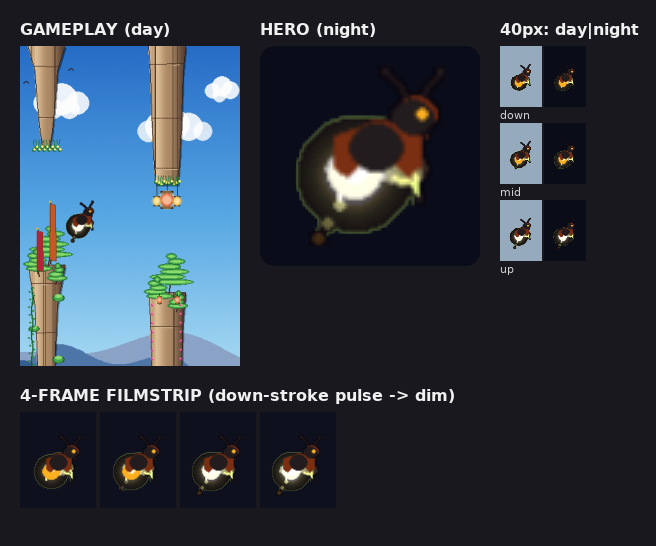
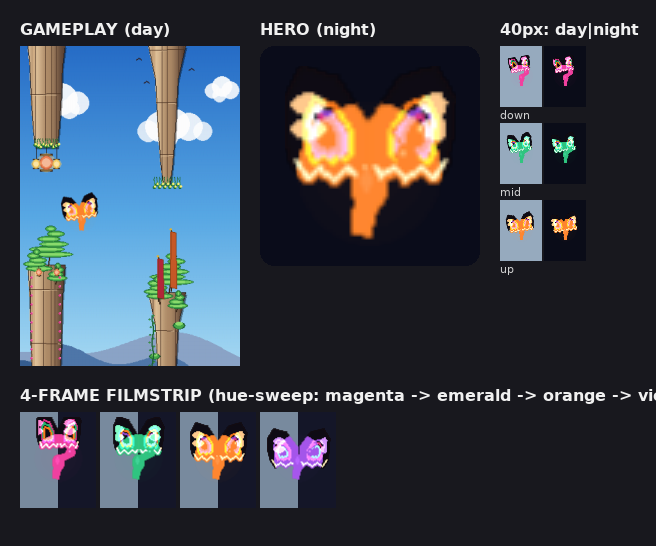
bug/bee design_2 SUNSET MOTH R2
Claude-Session: https://claude.ai/code/session_01K6KPJsdtoYoDR2za2Jqnmo

diff --git a/tools/bee_candidates/design_2.py b/tools/bee_candidates/design_2.py
@@ -1,14 +1,15 @@
 """BUG/INSECT redesign — design_2 SUNSET MOTH (Madagascan sunset moth,
 Chrysiridia rhipheus).
 
-The showpiece of the Uraniidae: a jet-black day-flying moth whose broad wings
-carry curved bands of molten rainbow iridescence and end in a short row of
-scalloped tails with a pale cream fringe. As with AZUREWING the wings are the
-whole story — a slim ink body hides behind two obsidian sails that fill the
-canvas wall-to-wall; concentric arced bands of magenta → emerald → orange hug
-the wing curve, and a per-frame POLYCHROME hue-sweep rotates which colour
-dominates across the four flap frames so the iridescence appears to flow.
-Black filamentous antennae (no clubs — it is a moth) keep the read honest.
+The showpiece of the Uraniidae: a jet-black day-flying moth whose broad
+OBSIDIAN wings carry a few slim ribbons of molten rainbow iridescence and end
+in a shallow scalloped edge with a pale cream fringe. As with AZUREWING the
+wings are the whole story — a slim ink body hides behind two black sails that
+fill the canvas wall-to-wall; black owns the wing, and only three thin arced
+ribbons hug the outer-mid curve. A per-frame POLYCHROME hue-sweep rotates a
+four-colour wheel so a different band leads each of the four flap frames and the
+iridescence appears to flow. Black filamentous antennae (no clubs — it is a
+moth) keep the read honest.
 
 Scratch exploration only — NOT registered in store_skins.BUILDERS. Production
 art stays untouched until a winner is picked.
@@ -27,12 +28,17 @@ OBSIDIAN = (14, 11, 20)     # DOMINANT jet-black wing base / margin / core
 MAGENTA  = (224, 52, 138)   # sunset magenta — rainbow band 1
 EMERALD  = (31, 184, 107)   # prism emerald — rainbow band 2
 ORANGE   = (255, 122, 26)   # ember orange — rainbow band 3
-CREAM    = (242, 228, 176)  # fringe cream — scalloped tail dots
+VIOLET   = (150, 74, 214)   # twilight violet — rainbow band 4 (frame distinct)
+CREAM    = (242, 228, 176)  # fringe cream — scalloped trailing edge
 THORAX   = (16, 12, 22)     # slim body
 
-# Brightened cousins of the band trio for the additive shimmer sweep — the same
-# rotation the bands use, so the flare colour agrees with the band it lights.
-SHIMMER = [(255, 120, 190), (120, 255, 180), (255, 190, 120), (255, 120, 190)]
+# A four-colour wheel drives the hue-sweep so every one of the four flap frames
+# has a distinct lead band (no two beats share a colour, unlike a 3-cycle).
+WHEEL = [MAGENTA, EMERALD, ORANGE, VIOLET]
+
+# Brightened cousins of the wheel for the additive shimmer — one per frame,
+# matching that frame's lead band so the flare colour agrees with the ribbon.
+SHIMMER = [(255, 120, 190), (120, 255, 180), (255, 190, 120), (200, 140, 255)]
 
 
 def _new():
@@ -46,9 +52,10 @@ def _flap(a):
 
 # Right-wing outer contour at the full-open pose. A broad triangular forewing
 # throws its apex up-and-out to reach the 62px edge; the hindwing hangs below
-# and its bottom margin is cut into three short scalloped lobes (the sunset
-# moth's stubby tails) rather than one long streamer. Inner edge sits ~2px off
-# the body axis so the mirrored left wing nearly meets it as one silhouette.
+# and its bottom margin is cut into three SHALLOW, WIDE scalloped lobes (the
+# sunset moth's stubby edge) rather than deep dangling tails. Inner edge sits
+# ~2px off the body axis so the mirrored left wing nearly meets it as one
+# silhouette.
 _WING_R = [
     (34, 29),   # 0 inner top, ~2px off the body axis
     (45, 14),   # 1 forewing leading rise
@@ -56,15 +63,15 @@ _WING_R = [
     (62, 21),   # 3 forewing outer shoulder — fills the width
     (61, 33),   # 4 forewing trailing outer
     (59, 41),   # 5 hindwing outer shoulder
-    (56, 49),   # 6 scallop lobe A (outer tail)      ← fringe tip
-    (52, 45),   # 7 notch
-    (49, 53),   # 8 scallop lobe B (main tail)       ← fringe tip
-    (44, 47),   # 9 notch
-    (40, 52),   # 10 scallop lobe C (inner tail)     ← fringe tip
-    (36, 46),   # 11 notch
-    (34, 44),   # 12 inner bottom, ~2px off the body axis
+    (55, 47),   # 6 scallop lobe A tip
+    (50, 43),   # 7 wide notch
+    (45, 47),   # 8 scallop lobe B tip
+    (40, 43),   # 9 wide notch
+    (36, 46),   # 10 scallop lobe C tip
+    (34, 43),   # 11 inner bottom, ~2px off the body axis
 ]
-SCALLOP_TIPS = (6, 8, 10)
+# Trailing scallop margin the cream fringe traces (hindwing shoulder → inner).
+FRINGE_IDX = range(5, 12)
 
 
 def _centroid(pts):
@@ -73,9 +80,9 @@ def _centroid(pts):
 
 
 def _inset(pts, frac):
-    """Shrink a polygon toward its centroid so concentric copies read as bands
+    """Shrink a polygon toward its centroid so concentric copies read as ribbons
     hugging the wing curve. Insetting preserves the scalloped bottom lobes as
-    they close in, which keeps the tail read alive through the shrink."""
+    they close in, which keeps the edge read alive through the shrink."""
     cx, cy = _centroid(pts)
     return [(x + (cx - x) * frac, y + (cy - y) * frac) for x, y in pts]
 
@@ -97,53 +104,52 @@ def _wing_mask(pts):
 
 
 def _bands_for(fi):
-    # Rotate the magenta/emerald/orange trio by the frame index so a different
-    # colour owns the outer band each beat — frame 0 magenta, 1 emerald, 2
-    # orange, 3 back toward magenta — the polychrome analogue of the morpho
-    # shimmer.
-    r = fi % 3
-    trio = [MAGENTA, EMERALD, ORANGE]
-    return trio[r:] + trio[:r]
+    # The three visible ribbons (outer→inner) are three consecutive entries of
+    # the four-colour wheel, offset by the frame index — so frame 0 leads
+    # magenta, 1 emerald, 2 orange, 3 violet, and every frame is a distinct beat.
+    r = fi % 4
+    return [WHEEL[(r + k) % 4] for k in range(3)]
 
 
 def _draw_wing(surf, side, spread, nx, fi):
     margin = _transform(_WING_R, side, spread, nx)
 
-    # Obsidian margin holds the silhouette; then three concentric arced bands of
-    # the rotated rainbow trio are stamped outer→inner, each smaller inset laid
-    # over the last, with a dark core so the wing centre stays black like the
-    # real moth. A tiny per-frame drift on the ring stops makes the bands appear
-    # to breathe outward and in, so even the two frames that share a colour
-    # rotation read as different beats.
-    drift = (fi - 1.5) * 0.015
-    fracs = [0.14 + drift, 0.33 + drift, 0.52 + drift, 0.71]
+    # Obsidian OWNS the wing: the whole face is filled black, then only three
+    # SLIM iridescent ribbons are STROKED along inset copies of the wing
+    # contour. A width-2 polygon outline gives a uniformly thin arc that hugs the
+    # wing curve at a fixed inset — so the ribbon never fattens on the compact
+    # hindwing (the filled-ring trap) and never touches the wing edge, leaving a
+    # fat black margin and a fat black core. A small per-frame drift breathes the
+    # ribbons outward and in.
+    drift = (fi - 1.5) * 0.02
+    centers = [0.40 + drift, 0.53 + drift, 0.66 + drift]
     bands = _bands_for(fi)
 
     pygame.draw.polygon(surf, OBSIDIAN, margin)
-    for frac, col in zip(fracs[:3], bands):
-        pygame.draw.polygon(surf, col, _inset(margin, frac))
-    pygame.draw.polygon(surf, OBSIDIAN, _inset(margin, fracs[3]))
+    for c, col in zip(centers, bands):
+        pygame.draw.polygon(surf, col, _inset(margin, c), 2)
 
-    # Per-frame polychrome shimmer clipped to the wing face: a bright column of
-    # ellipses in the frame's lead colour sweeps across the wing (same screen
-    # direction on both wings, so it flows as one gesture), faking the molten
-    # angle-dependent flare that gives the sunset moth its name.
-    fill = _inset(margin, 0.11)
-    fcx, fcy = _centroid(fill)
-    shift = (fi - 1.5) * 5
-    scol = SHIMMER[fi]
+    # Per-frame polychrome shimmer rides the OUTER ribbon, not the wing core, so
+    # the centre stays black: two soft ellipses in the frame's brightened lead
+    # colour, clipped to the wing face, fake the molten angle-dependent flare
+    # that gives the sunset moth its name.
+    cx, cy = _centroid(margin)
+    ox, oy = margin[3]                     # outer shoulder — the outer-mid wing
+    ax = cx + (ox - cx) * 0.5
+    ay = cy + (oy - cy) * 0.5
+    shift = (fi - 1.5) * 3
+    scol = SHIMMER[fi % 4]
     sh = _new()
-    for k in range(3):
-        _aaellipse(sh, (*scol, 58), (fcx + shift, fcy - 11 + k * 9), 7, 4)
-    _aaellipse(sh, (255, 255, 255, 40), (fcx + shift * 0.6, fcy - 4), 4, 3)
-    sh.blit(_wing_mask(fill), (0, 0), special_flags=pygame.BLEND_RGBA_MIN)
+    for k in range(2):
+        _aaellipse(sh, (*scol, 30), (ax + shift, ay - 4 + k * 8), 6, 4)
+    sh.blit(_wing_mask(_inset(margin, 0.11)), (0, 0),
+            special_flags=pygame.BLEND_RGBA_MIN)
     surf.blit(sh, (0, 0), special_flags=pygame.BLEND_RGBA_ADD)
 
-    # Cream fringe: pale scale-dots marching along the scalloped tail tips — the
-    # non-hue accessibility anchor that survives 40px on both skies.
-    for idx in SCALLOP_TIPS:
-        mx, my = margin[idx]
-        pygame.draw.circle(surf, CREAM, (int(mx), int(my)), 2)
+    # Cream fringe: a short pale stroke tracing the shallow scalloped trailing
+    # margin — the non-hue accessibility anchor, thick enough to survive 40px.
+    fringe = [(int(margin[i][0]), int(margin[i][1])) for i in FRINGE_IDX]
+    pygame.draw.lines(surf, CREAM, False, fringe, 2)
 
 
 def _draw_body(surf):
@@ -197,14 +203,15 @@ def _build_frame(wing_angle_deg):
 def _apply_glow(outlined, fi):
     # Outer glow goes on top of the ALREADY-outlined sprite: an additive halo
     # painted before the outline would trip _add_outline's silhouette mask and
-    # sprout a ring around the glow itself. The halo takes the frame's lead band
-    # colour so the bloom agrees with the wing and reads on a dark night sky.
+    # sprout a ring around the glow itself. The halo is a whisper — low alpha and
+    # a tight radius — so the obsidian body never blooms into a flame on a night
+    # sky; it just lets the wing's lead colour breathe at the silhouette edge.
     out = outlined.copy()
     w, h = out.get_size()
     cx, cy = w // 2, h // 2 - 2
     col = _bands_for(fi)[0]
     glow = pygame.Surface((w, h), pygame.SRCALPHA)
-    for r, a in ((32, 8), (24, 8), (16, 6)):
+    for r, a in ((24, 4), (18, 3), (12, 2)):
         g = pygame.Surface((r * 2, r * 2), pygame.SRCALPHA)
         pygame.draw.circle(g, (*col, a), (r, r), r)
         glow.blit(g, (cx - r, cy - r))

diff --git a/tools/bee_candidates/_render_design_2.py b/tools/bee_candidates/_render_design_2.py
@@ -39,8 +39,9 @@ t40h = max(t.get_height() for _, t in truth40)
 truth_block_w = 96
 truth_block_h = t40h + 2 * LABEL_H + 12
 
-# 4-frame filmstrip on a dark strip so the polychrome hue-sweep is visible
-# (frame 0 magenta -> 1 emerald -> 2 orange -> 3 back toward magenta).
+# 4-frame filmstrip on a split day/night field (NOT black) so the obsidian
+# wing base is visible against the background and the polychrome hue-sweep reads
+# (frame 0 magenta -> 1 emerald -> 2 orange -> 3 violet — four distinct beats).
 frames = [build(i, 0.0) for i in range(4)]
 fw = max(f.get_width() for f in frames)
 fh = max(f.get_height() for f in frames)
@@ -80,18 +81,25 @@ for name, t in truth40:
     ty += t40h + 30
 
 sy = PAD * 2 + top_h
-label(sheet, "4-FRAME FILMSTRIP (hue-sweep: magenta -> emerald -> orange)",
+label(sheet,
+      "4-FRAME FILMSTRIP (hue-sweep: magenta -> emerald -> orange -> violet)",
       PAD, sy)
 fx = PAD
 fy = sy + LABEL_H
 for i, f in enumerate(frames):
-    pygame.draw.rect(sheet, (14, 16, 30),
-                     pygame.Rect(fx, fy, fw + 8, fh + 8))
+    cell = pygame.Rect(fx, fy, fw + 8, fh + 8)
+    # Split day/night backing: left half a mid day-sky, right half night — the
+    # obsidian wing base must stay legible against BOTH, not vanish into black.
+    pygame.draw.rect(sheet, (120, 138, 158),
+                     pygame.Rect(cell.x, cell.y, cell.w // 2, cell.h))
+    pygame.draw.rect(sheet, (20, 22, 40),
+                     pygame.Rect(cell.x + cell.w // 2, cell.y,
+                                 cell.w - cell.w // 2, cell.h))
     sheet.blit(f, (fx + 4 + (fw - f.get_width()) // 2,
                    fy + 4 + (fh - f.get_height()) // 2))
     fx += fw + 12
 
-out = "/home/user/skybit/docs/store_redesign/animal/bee/design_2/round_1.png"
+out = "/home/user/skybit/docs/store_redesign/animal/bee/design_2/round_2.png"
 os.makedirs(os.path.dirname(out), exist_ok=True)
 pygame.image.save(sheet, out)
 print("saved", out)
